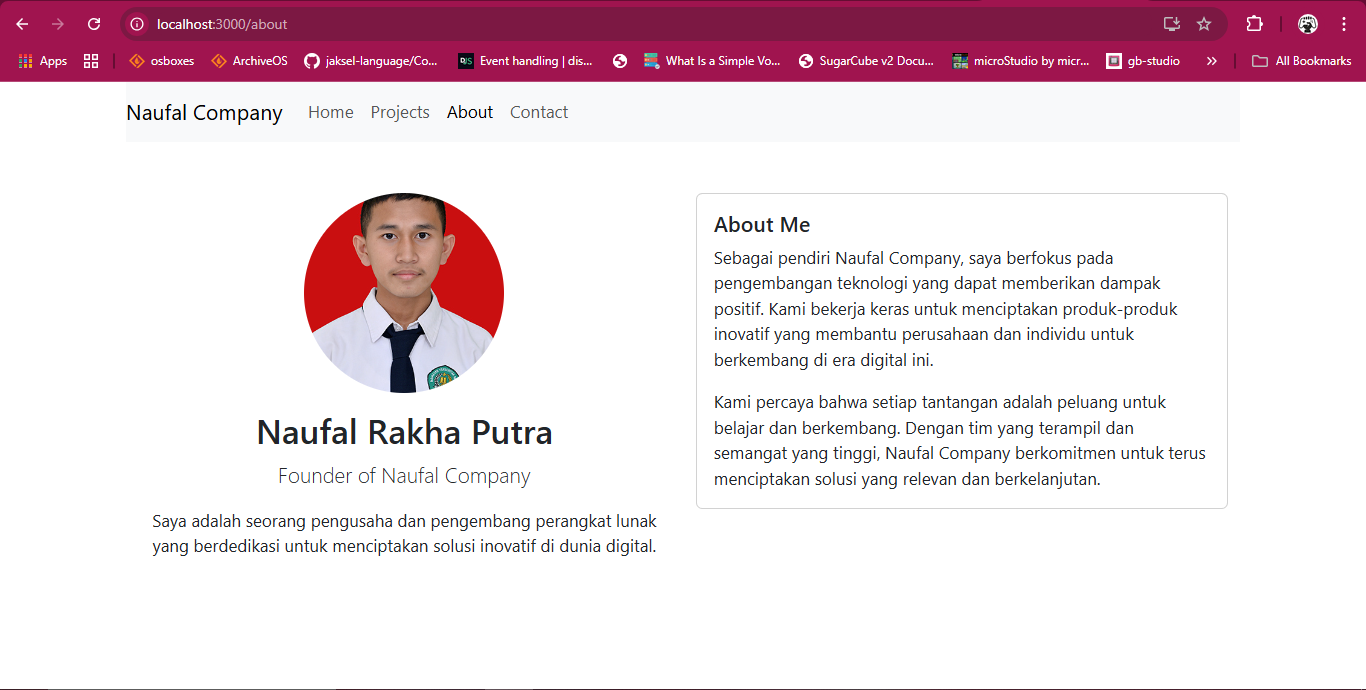
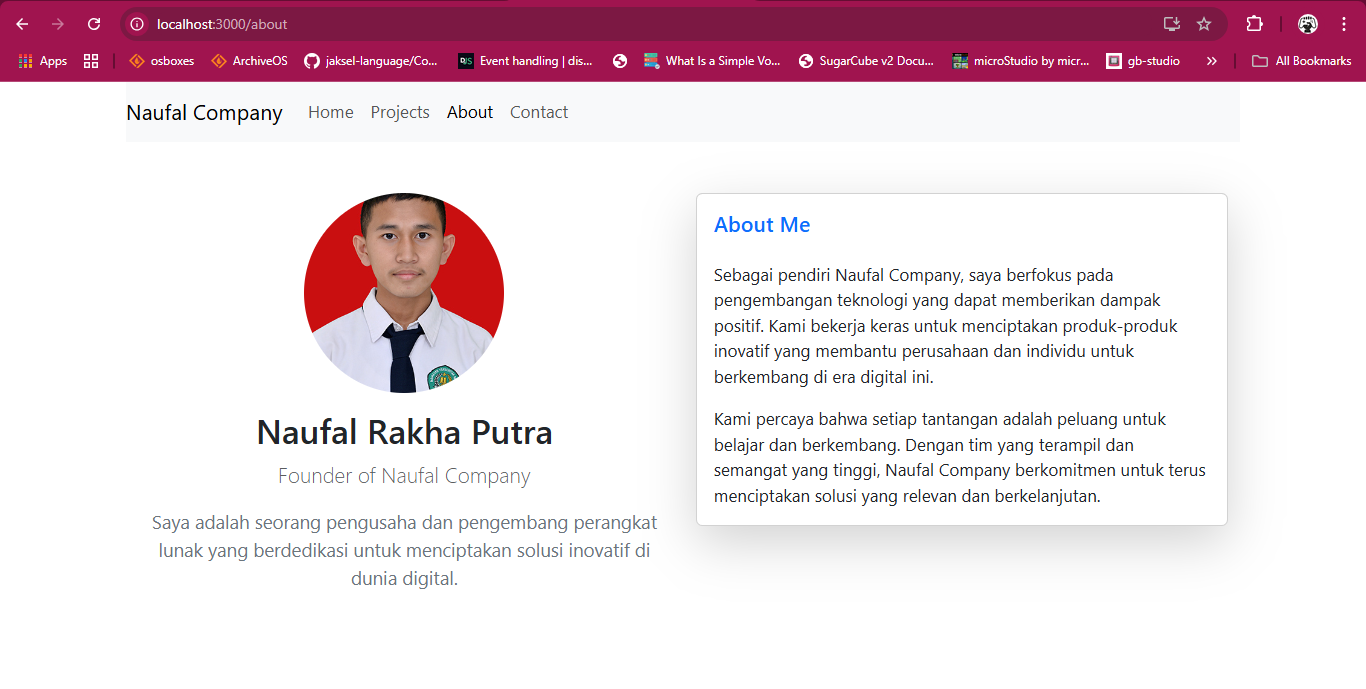
Commit Final Banget Tugas 1

diff --git a/src/Projects.js b/src/Projects.js
@@ -1,8 +1,8 @@
 import React from 'react';
 import { Container, Row, Col, Card, Button, ProgressBar } from 'react-bootstrap';
+import { FaBlog, FaGamepad, FaCode } from 'react-icons/fa';
 
 function Project() {
-  
   const skills = [
     { name: 'Server Administration', level: 90 },
     { name: 'Network Administration', level: 90 },
@@ -14,23 +14,20 @@ function Project() {
     { name: 'Web Design', level: 60 },
     { name: 'UI / UX', level: 50 },
     { name: 'Python Development', level: 40 },
-    { name: 'Database Management', level: 80 }
+    { name: 'Database Management', level: 80 },
   ];
+
   return (
     <Container className="project mt-5">
       <h1 className="text-center mb-4">Project Saya</h1>
-      <Row className="g-4">
-        {/* Blog Saya */}
+      <Row className="g-4 card-group">
         <Col md={4}>
-          <Card>
+          <Card className="shadow-sm h-100">
             <Card.Body>
+              <FaBlog size={30} className="mb-3 text-primary" />
               <Card.Title>Blog Saya</Card.Title>
-              <Card.Subtitle className="mb-2 text-muted">
-                Maret 2016 - Sekarang
-              </Card.Subtitle>
-              <Card.Text>
-                Saya memiliki blog website yang saya bangun demi kecintaan saya terhadap teknologi.
-              </Card.Text>
+              <Card.Subtitle className="mb-2 text-muted">Maret 2016 - Sekarang</Card.Subtitle>
+              <Card.Text>Saya memiliki blog website yang saya bangun demi kecintaan saya terhadap teknologi.</Card.Text>
               <Button variant="primary" href="https://smc.great-site.net" target="_blank">
                 Kunjungi Website
               </Button>
@@ -38,17 +35,13 @@ function Project() {
           </Card>
         </Col>
 
-        {/* Game Buatan Saya */}
         <Col md={4}>
-          <Card>
+          <Card className="shadow-sm h-100">
             <Card.Body>
+              <FaGamepad size={30} className="mb-3 text-success" />
               <Card.Title>Game Buatan Saya</Card.Title>
-              <Card.Subtitle className="mb-2 text-muted">
-                April 2019 - Sekarang
-              </Card.Subtitle>
-              <Card.Text>
-                Saya membuat game sederhana dan ditampilkan di profil itch.io saya.
-              </Card.Text>
+              <Card.Subtitle className="mb-2 text-muted">April 2019 - Sekarang</Card.Subtitle>
+              <Card.Text>Saya membuat game sederhana dan ditampilkan di profil itch.io saya.</Card.Text>
               <Button variant="success" href="https://seninterus.itch.io/" target="_blank">
                 Lihat Game
               </Button>
@@ -56,28 +49,26 @@ function Project() {
           </Card>
         </Col>
 
-        {/* Program dan Aplikasi Saya */}
         <Col md={4}>
-          <Card>
+          <Card className="shadow-sm h-100">
             <Card.Body>
+              <FaCode size={30} className="mb-3 text-dark" />
               <Card.Title>Program dan Aplikasi Saya</Card.Title>
-              <Card.Subtitle className="mb-2 text-muted">
-                Januari 2019 - Sekarang
-              </Card.Subtitle>
-              <Card.Text>
-                Saya membuat Program dan Aplikasi dan ditampilkan di profil GitHub saya.
-              </Card.Text>
+              <Card.Subtitle className="mb-2 text-muted">Januari 2019 - Sekarang</Card.Subtitle>
+              <Card.Text>Saya membuat Program dan Aplikasi dan ditampilkan di profil GitHub saya.</Card.Text>
               <Button variant="dark" href="https://github.com/sternnaufal" target="_blank">
                 Lihat Program
               </Button>
             </Card.Body>
           </Card>
         </Col>
-        <Col md={12}>
-        
-        <Card>
+      </Row>
+
+      <Row className="mt-5">
+        <Col>
+          <Card className="shadow-sm">
             <Card.Body>
-              <Card.Title>Skillset</Card.Title>
+              <Card.Title className="mb-4">Skillset</Card.Title>
               {skills.map((skill, index) => (
                 <div key={index} className="mb-3">
                   <strong>{skill.name}</strong>
@@ -85,7 +76,8 @@ function Project() {
                     now={skill.level}
                     label={`${skill.level}%`}
                     variant={getVariant(skill.level)}
-                    className="mt-2"
+                    className="mt-2 animated-progress"
+                    animated
                   />
                 </div>
               ))}
@@ -104,4 +96,5 @@ function getVariant(level) {
   if (level >= 40) return 'warning';
   return 'danger';
 }
+
 export default Project;

diff --git a/src/About.js b/src/About.js
@@ -1,48 +1,52 @@
 import React from 'react';
-import { Container, Row, Col, Card, ProgressBar } from 'react-bootstrap';
+import { Container, Row, Col, Card} from 'react-bootstrap';
+import './About.css'; // Tambahkan file CSS untuk styling khusus
 
 function About() {
+
   return (
-    <Container className="my-5">
+    <Container className="my-5 about-container">
       <Row>
+        {/* Profil Foto dan Deskripsi Singkat */}
         <Col md={6} className="text-center mb-4">
-          <img
-            src="/naufal.jpg"
-            alt="Naufal Rakha Putra"
-            className="img-fluid rounded-circle mb-3"
-            style={{ width: '200px', height: '200px', objectFit: 'cover' }}
-          />
-          <h2>Naufal Rakha Putra</h2>
-          <p className="lead">Founder of Naufal Company</p>
-          <p>
-            Saya adalah seorang pengusaha dan pengembang perangkat lunak
-            yang berdedikasi untuk menciptakan solusi inovatif di dunia digital.
+          <div className="profile-container">
+            <img
+              src="/naufal.jpg"
+              alt="Naufal Rakha Putra"
+              className="img-fluid rounded-circle profile-img"
+            />
+          </div>
+          <h2 className="mt-3">Naufal Rakha Putra</h2>
+          <p className="lead text-muted">Founder of Naufal Company</p>
+          <p className="about-description">
+            Saya adalah seorang pengusaha dan pengembang perangkat lunak yang berdedikasi
+            untuk menciptakan solusi inovatif di dunia digital.
           </p>
         </Col>
+
+        {/* Kartu About Me */}
         <Col md={6}>
-          <Card className="mb-4">
+          <Card className="shadow-lg fade-in">
             <Card.Body>
-              <Card.Title>About Me</Card.Title>
+              <Card.Title className="mb-4 text-primary">About Me</Card.Title>
               <Card.Text>
-                Sebagai pendiri Naufal Company, saya berfokus pada pengembangan
-                teknologi yang dapat memberikan dampak positif. Kami bekerja
-                keras untuk menciptakan produk-produk inovatif yang membantu
-                perusahaan dan individu untuk berkembang di era digital ini.
+                Sebagai pendiri Naufal Company, saya berfokus pada pengembangan teknologi
+                yang dapat memberikan dampak positif. Kami bekerja keras untuk menciptakan
+                produk-produk inovatif yang membantu perusahaan dan individu untuk berkembang
+                di era digital ini.
               </Card.Text>
               <Card.Text>
-                Kami percaya bahwa setiap tantangan adalah peluang untuk
-                belajar dan berkembang. Dengan tim yang terampil dan semangat
-                yang tinggi, Naufal Company berkomitmen untuk terus menciptakan
-                solusi yang relevan dan berkelanjutan.
+                Kami percaya bahwa setiap tantangan adalah peluang untuk belajar dan berkembang.
+                Dengan tim yang terampil dan semangat yang tinggi, Naufal Company berkomitmen
+                untuk terus menciptakan solusi yang relevan dan berkelanjutan.
               </Card.Text>
             </Card.Body>
           </Card>
-         
         </Col>
       </Row>
-    </Container>
+
+     </Container>
   );
 }
-
 
 export default About;

diff --git a/src/Home.js b/src/Home.js
@@ -1,17 +1,23 @@
 import React from 'react';
 import { Container, Row, Col, Button } from 'react-bootstrap';
 import { ImGithub } from 'react-icons/im';
+import './Home.css'; // Tambahkan file CSS eksternal jika ingin animasi lebih kompleks
+
 function Home() {
     return (
         <Container className="text-center my-5">
             <Row>
                 <Col>
-                    <h1>Welcome to Naufal Company</h1>
+                    <h1 className="animated-title">Welcome to Naufal Company</h1>
                     <p className="lead">
-                        This is a simple React app to display the company's logo and name.
+                        Cari kebutuhanmu disini!
                     </p>
-                    <Button href="/about" variant="primary" size="lg">
+                    <Button href="/about" variant="primary" size="lg" className="mb-3">
                         Learn More About Us
+                    </Button>
+                    <p className="mt-4">Follow our projects on GitHub:</p>
+                    <Button href="https://github.com/sternnaufal" variant="dark" size="lg">
+                        <ImGithub /> Visit GitHub
                     </Button>
                 </Col>
             </Row>

diff --git a/src/About.css b/src/About.css
@@ -1,0 +1,40 @@
+.about-container {
+    animation: fadeIn 2s ease-in-out;
+  }
+  
+  .profile-container {
+    position: relative;
+    overflow: hidden;
+  }
+  
+  .profile-img {
+    width: 200px;
+    height: 200px;
+    object-fit: cover;
+    transition: transform 0.3s ease;
+  }
+  
+  .profile-img:hover {
+    transform: scale(1.1);
+  }
+  
+  .about-description {
+    font-size: 1.1rem;
+    color: #6c757d;
+  }
+  
+  .fade-in {
+    animation: fadeIn 1.5s ease-in-out;
+  }
+  
+  @keyframes fadeIn {
+    from {
+      opacity: 0;
+      transform: translateY(20px);
+    }
+    to {
+      opacity: 1;
+      transform: translateY(0);
+    }
+  }
+  

diff --git a/src/Home.css b/src/Home.css
@@ -1,0 +1,16 @@
+.animated-title {
+    font-size: 3rem;
+    color: #007bff;
+    animation: fadeIn 2s ease-in-out;
+}
+
+@keyframes fadeIn {
+    from {
+        opacity: 0;
+        transform: translateY(-20px);
+    }
+    to {
+        opacity: 1;
+        transform: translateY(0);
+    }
+}
